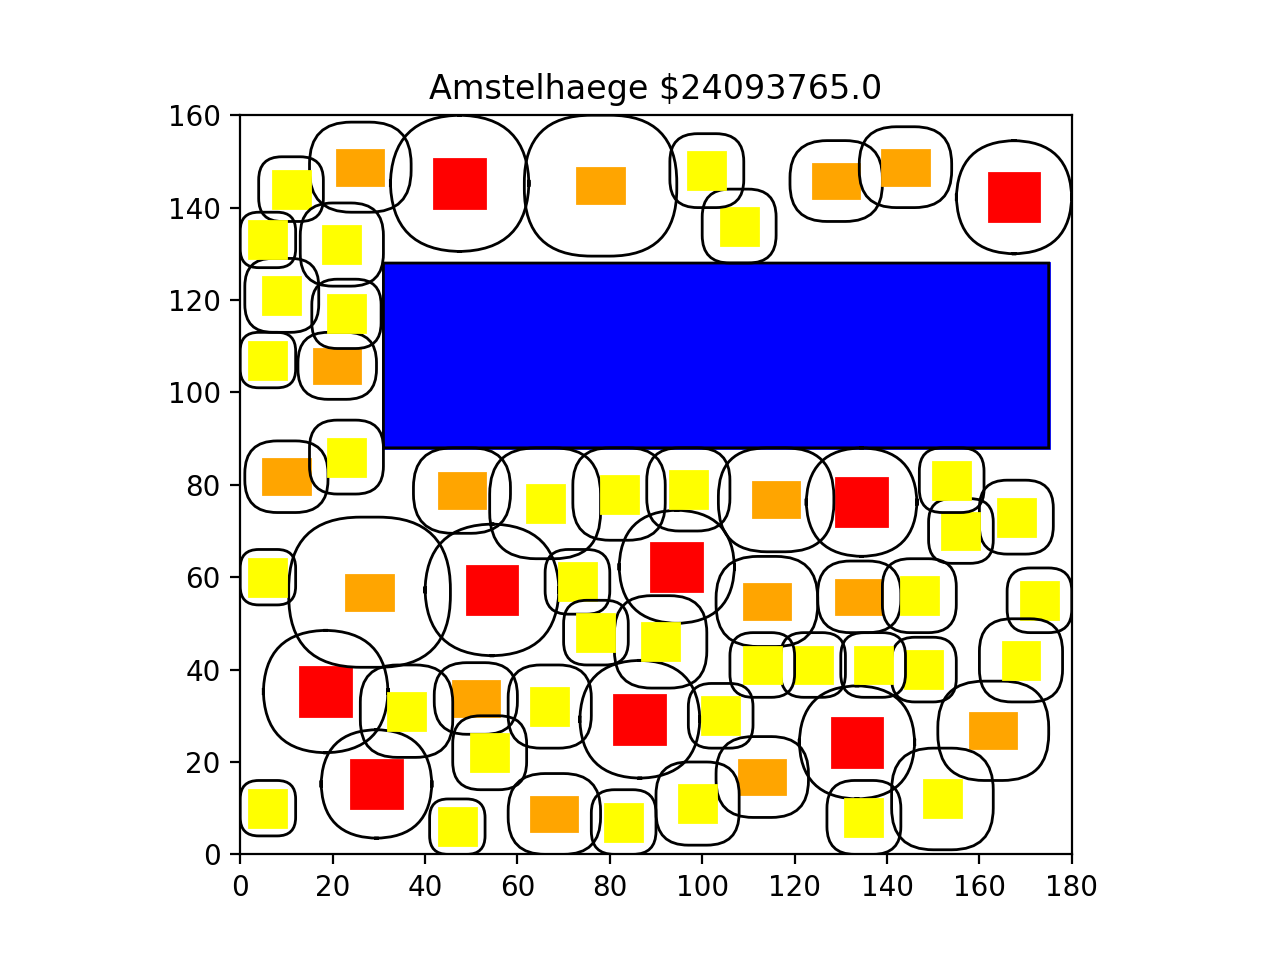
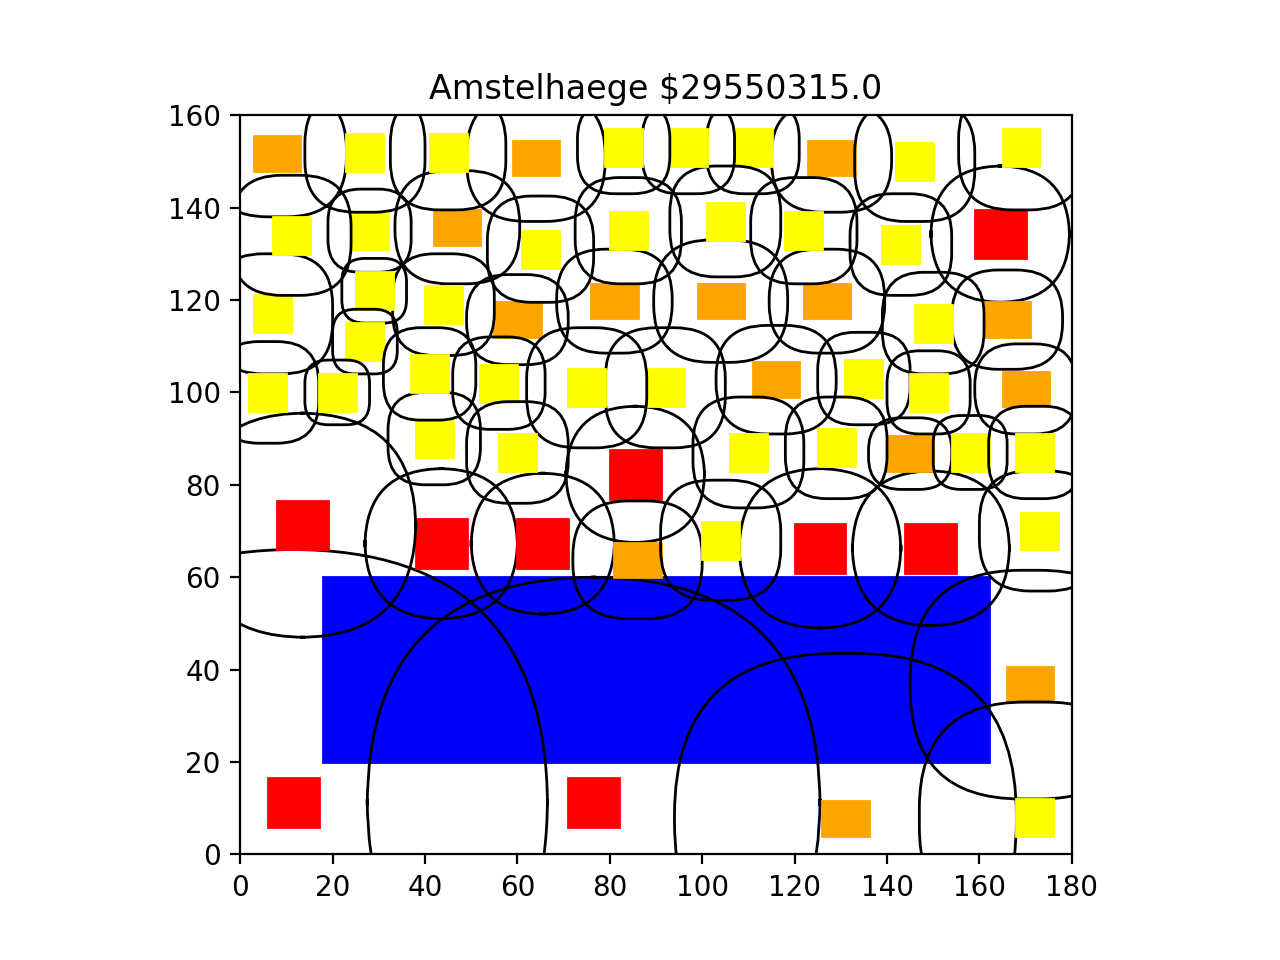
Update visualize colors, random plot frist house, new pic readme

diff --git a/visualize.py b/visualize.py
@@ -8,6 +8,7 @@ def PlotHouses(grid):
     area.set_ylim(ymin=0, ymax=grid.areaHeight)
     area.set_aspect('equal', adjustable='box')
     area.set_title('Amstelhaege ${}'.format(grid.value))
+    area.set_facecolor((0.624,0.816,0.404))
 
     for waterBody in grid.waterBodiesList:
         area.add_patch(plt.Polygon(waterBody.corners(waterBody.x, waterBody.y), color=waterBody.color))
@@ -21,6 +22,6 @@ def PlotHouses(grid):
                                                   width=house.extraFreeSpaceCorners(house.x, house.y)[3][0]-house.extraFreeSpaceCorners(house.x, house.y)[0][0],
                                                   height=house.extraFreeSpaceCorners(house.x, house.y)[1][1]-house.extraFreeSpaceCorners(house.x, house.y)[0][1],
                                                   boxstyle='round, pad=0, rounding_size={}'.format(house.freespace+house.extraFreespace),
-                                                  transform=area.transData, ec='black', fill=False))
+                                                  transform=area.transData, ec='black', fill=True, alpha=0.2, color=house.color))
 
     plt.show()

diff --git a/PlaceAndIntersect.py b/PlaceAndIntersect.py
@@ -137,8 +137,11 @@ def placeHouse(houseType, grid):
 
 # Place first maison manually in the corner of the grid
 def placeFirstMaison(houseType, grid):
-    houseType.x = houseType.freespace
-    houseType.y = houseType.freespace
+    houseType.x = np.random.randint(low=houseType.freespace, high=grid.areaWidth -
+                          houseType.freespace - houseType.width)
+    houseType.y = np.random.randint(low=houseType.freespace,
+                          high=grid.areaHeight - houseType.freespace -
+                          houseType.height)
     houseType.color = 'red'
 
     houseType.position = len(grid.housesList)
